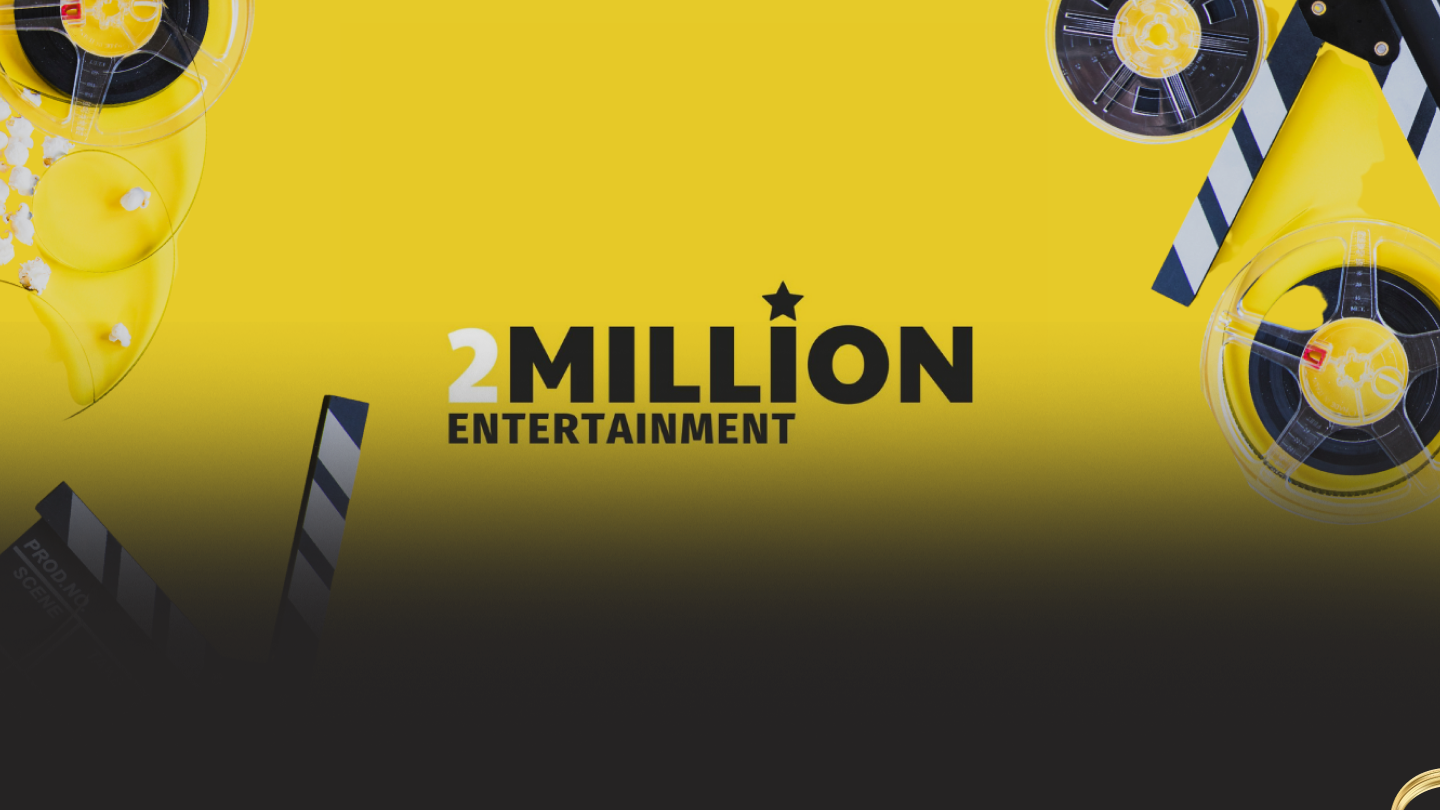
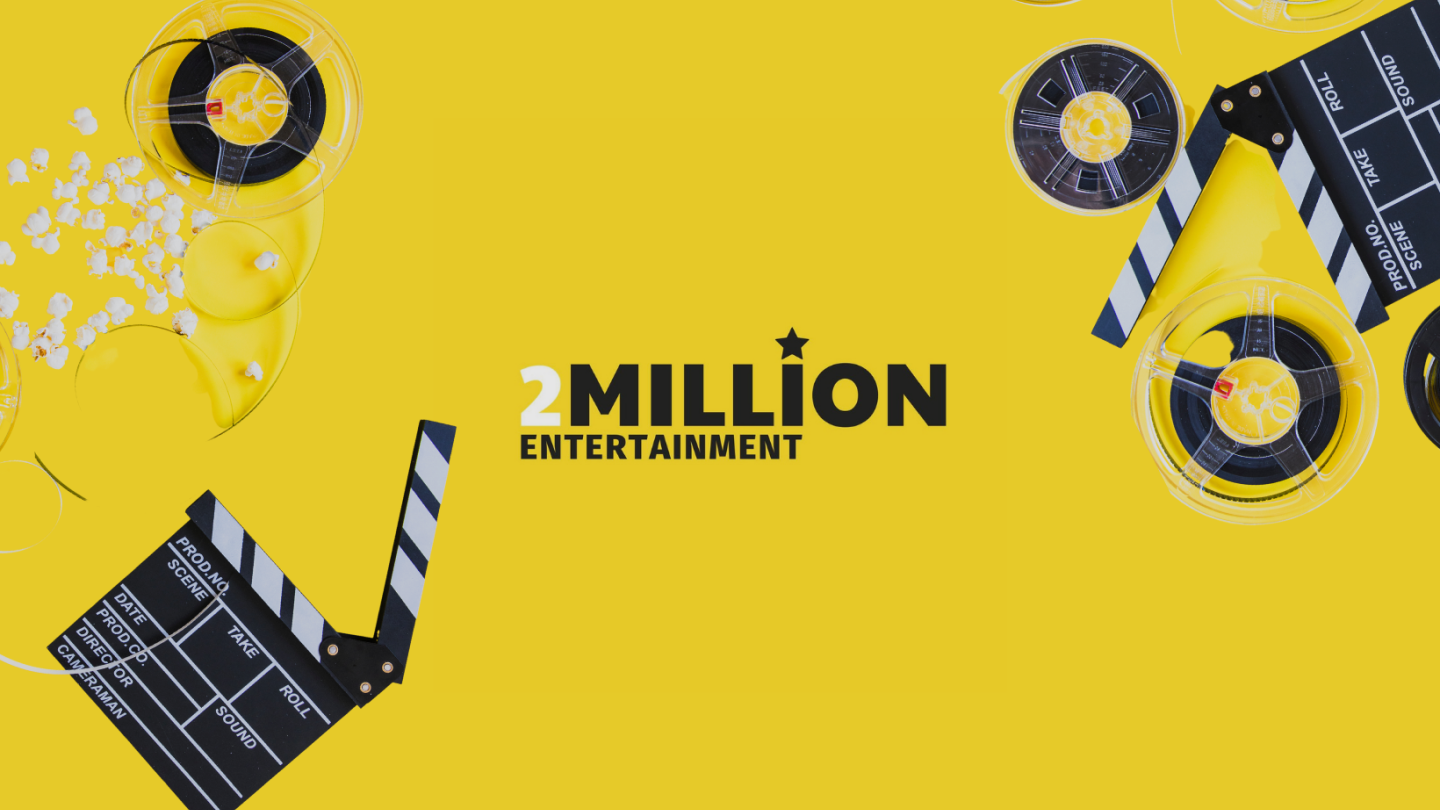
1902

diff --git a/index.html b/index.html
@@ -55,7 +55,7 @@
 
   <!-- ======= Header ======= -->
   <header id="header" class="d-flex align-items-center">
-    <div class="container d-flex align-items-center justify-content-between">
+    <div class="container d-flex align-items-end">
 
       <h1 class="logo"><a href="index.html" style="display: flex; flex-direction: row;">
         <img src="assets/img/Logo PNG .png" alt="" class="img-fluid">
@@ -67,30 +67,10 @@
 
       <nav id="navbar" class="navbar">
         <ul>
-          <li><a class="nav-link scrollto active" href="#hero">Home</a></li>
-          <li><a class="nav-link scrollto" href="#about">About</a></li>
-          <li><a class="nav-link scrollto" href="#services">Services</a></li>
+          <li><a class="nav-link scrollto" href="#about">Về 2ME</a></li>
+          <li><a class="nav-link scrollto" href="#services">Dịch vụ</a></li>
           <li><a class="nav-link scrollto " href="#portfolio">Portfolio</a></li>
-          <li><a class="nav-link scrollto" href="#pricing">Pricing</a></li>
-          <li><a class="nav-link scrollto" href="#team">Team</a></li>
-          <!-- <li class="dropdown"><a href="#"><span>Drop Down</span> <i class="bi bi-chevron-down"></i></a>
-            <ul>
-              <li><a href="#">Drop Down 1</a></li>
-              <li class="dropdown"><a href="#"><span>Deep Drop Down</span> <i class="bi bi-chevron-right"></i></a>
-                <ul>
-                  <li><a href="#">Deep Drop Down 1</a></li>
-                  <li><a href="#">Deep Drop Down 2</a></li>
-                  <li><a href="#">Deep Drop Down 3</a></li>
-                  <li><a href="#">Deep Drop Down 4</a></li>
-                  <li><a href="#">Deep Drop Down 5</a></li>
-                </ul>
-              </li>
-              <li><a href="#">Drop Down 2</a></li>
-              <li><a href="#">Drop Down 3</a></li>
-              <li><a href="#">Drop Down 4</a></li>
-            </ul>
-          </li> -->
-          <li><a class="nav-link scrollto" href="#contact">Contact</a></li>
+          <li><a class="nav-link scrollto" href="#contact">Liên hệ</a></li>
         </ul>
         <i class="bi bi-list mobile-nav-toggle"></i>
       </nav><!-- .navbar -->
@@ -99,10 +79,10 @@
   </header><!-- End Header -->
 
   <!-- ======= Hero Section ======= -->
-  <section id="hero" class="d-flex align-items-center">
+  <section id="hero" class="d-flex align-items-end">
     <div class="container position-relative" data-aos="fade-up" data-aos-delay="500">
-      <h1>Welcome to 2ME AGENCY</h1>
-      <h2>Stand out from the crowd</h2>
+      <h1>Giải pháp truyền thông</h1>
+      <h2>toàn diện, sáng tạo, vững chắc và hiệu quả</h2>
       <!-- <a href="#about" class="btn-get-started scrollto">Get Started</a> -->
     </div>
   </section><!-- End Hero -->
@@ -114,33 +94,25 @@
       <div class="container">
 
         <div >
-          <!-- <div class="col-lg-6 order-1 order-lg-2" data-aos="fade-left">
-            <img src="assets/img/about.jpg" class="img-fluid" alt="">
-          </div> -->
-          <div class=" pt-4 pt-lg-0 order-2 order-lg-1 content" data-aos="fade-right">
-            <h3>VỀ CHÚNG TÔI</h3>
-            <!-- <p class="fst-italic">
-              Lorem ipsum dolor sit amet, consectetur adipiscing elit, sed do eiusmod tempor incididunt ut labore et dolore
-              magna aliqua.
-            </p> -->
-            <ul class="row">
+          
+          <div class=" pt-4 pt-lg-0 order-2 order-lg-1 content" data-aos="fade-left">
+            <h3>VỀ 2ME</h3>
+            <div class="d-inline-flex">
+              <ul class="row">
               <li><i class="bi bi-check-circle"></i>2ME Agency tự hào được chọn làm đối tác chiến lược của nhiều thương hiệu nổi tiếng trong nước và quốc tế trong suốt nhiều năm qua.</li>
               <li><i class="bi bi-check-circle"></i>Chúng tôi tự tin đem đến cho khách hàng các giải pháp truyền thông toàn diện, sáng tạo, vững chắc và hiệu quả, để đưa thương hiệu của bạn được lan tỏa và tiếp cận tới hàng triệu khách hàng tiềm năng trên mạng xã hội chỉ qua 1 nút “Click”.
               </li>
             </ul>
-            <!-- <p>
-              Ullamco laboris nisi ut aliquip ex ea commodo consequat. Duis aute irure dolor in reprehenderit in voluptate
-              velit esse cillum dolore eu fugiat nulla pariatur. Excepteur sint occaecat cupidatat non proident, sunt in
-              culpa qui officia deserunt mollit anim id est laborum
-            </p> -->
+
+            <div class="col-lg-6 order-1 order-lg-2 " data-aos="fade-right">
+            <img src="assets/img/aboutus.png" class="img-fluid" alt="">
+          </div> </div>
+            
           </div>
-          <div class=" pt-4 pt-lg-0 order-2 order-lg-1 content" data-aos="fade-right">
+          
+          <div class=" pt-4 pt-lg-0 order-2 order-lg-1 content " data-aos="fade-right">
             <h3>SỨ MỆNH - TẦM NHÌN - GIÁ TRỊ CỐT LÕI</h3>
-            <!-- <p class="fst-italic">
-              Lorem ipsum dolor sit amet, consectetur adipiscing elit, sed do eiusmod tempor incididunt ut labore et dolore
-              magna aliqua.
-            </p> -->
-            <ul class="row">
+            <ul class="row flex-grow-1">
               <li><i class="bi bi-check-circle"></i> Sứ mệnh: 
                 <li><i class="bi bi-dash" style="padding-left: 20px ;"></i>Đồng hành và cung cấp cho khách hàng các giải pháp dịch vụ truyền thông đa phương tiện hiệu quả và tối ưu trên Social Media</li>
                 <li><i class="bi bi-dash" style="padding-left: 20px ;"></i>Luôn nghiên cứu, cập nhật và phát triển những giải pháp mới tối ưu cho khách hàng phù hợp với thời buổi thị trường</li>
@@ -836,78 +808,7 @@
   </main><!-- End #main -->
 
   <!-- ======= Footer ======= -->
-  <footer id="footer">
-    <div class="footer-top">
-      <div class="container">
-        <div class="row">
-
-          <div class="col-lg-4 col-md-6">
-            <div class="footer-info">
-              <h3>2ME</h3>
-              <p>
-                55 Ngõ Giếng, Phố Đông Các <br>
-                P.Ô Chợ Dừa, Q.Đống Đa, Hà Nội<br><br>
-                <strong>Phone:</strong> 085 8928282<br>
-                <strong>Email:</strong> works@2million.vn<br>
-              </p>
-              <div class="social-links mt-3">
-                <!-- <a href="#" class="twitter"><i class="bx bxl-twitter"></i></a> -->
-                <a href="#" class="facebook"><i class="bx bxl-facebook"></i></a>
-                <a href="#" class="instagram"><i class="bx bxl-instagram"></i></a>
-                <!-- <a href="#" class="google-plus"><i class="bx bxl-skype"></i></a> -->
-                <a href="#" class="linkedin"><i class="bx bxl-linkedin"></i></a>
-              </div>
-            </div>
-          </div>
-
-          <div class="col-lg-2 col-md-6 footer-links">
-            <h4>Useful Links</h4>
-            <ul>
-              <li><i class="bx bx-chevron-right"></i> <a href="#">Home</a></li>
-              <li><i class="bx bx-chevron-right"></i> <a href="#">About us</a></li>
-              <li><i class="bx bx-chevron-right"></i> <a href="#">Services</a></li>
-              <li><i class="bx bx-chevron-right"></i> <a href="#">Terms of service</a></li>
-              <li><i class="bx bx-chevron-right"></i> <a href="#">Privacy policy</a></li>
-            </ul>
-          </div>
-
-          <div class="col-lg-2 col-md-6 footer-links">
-            <h4>Our Services</h4>
-            <ul>
-              <li><i class="bx bx-chevron-right"></i> <a href="#">Web Design</a></li>
-              <li><i class="bx bx-chevron-right"></i> <a href="#">Web Development</a></li>
-              <li><i class="bx bx-chevron-right"></i> <a href="#">Product Management</a></li>
-              <li><i class="bx bx-chevron-right"></i> <a href="#">Marketing</a></li>
-              <li><i class="bx bx-chevron-right"></i> <a href="#">Graphic Design</a></li>
-            </ul>
-          </div>
-
-          <div class="col-lg-4 col-md-6 footer-newsletter">
-            <h4>Our Newsletter</h4>
-            <p>Tamen quem nulla quae legam multos aute sint culpa legam noster magna</p>
-            <form action="" method="post">
-              <input type="email" name="email"><input type="submit" value="Subscribe">
-            </form>
-
-          </div>
-
-        </div>
-      </div>
-    </div>
-
-    <div class="container">
-      <div class="copyright">
-        &copy; Copyright <strong><span>2ME</span></strong>. All Rights Reserved
-      </div>
-      <div class="credits">
-        <!-- All the links in the footer should remain intact. -->
-        <!-- You can delete the links only if you purchased the pro version. -->
-        <!-- Licensing information: https://bootstrapmade.com/license/ -->
-        <!-- Purchase the pro version with working PHP/AJAX contact form: https://bootstrapmade.com/day-multipurpose-html-template-for-free/ -->
-        Designed by <a href="https://bootstrapmade.com/">BootstrapMade</a>
-      </div>
-    </div>
-  </footer><!-- End Footer -->
+  
 
   <a href="#" class="back-to-top d-flex align-items-center justify-content-center"><i class="bi bi-arrow-up-short"></i></a>
   <div id="preloader"></div>

diff --git a/assets/css/style.css b/assets/css/style.css
@@ -217,11 +217,15 @@ h6 {
 }
 
 #header .logo a {
-  color: #fff;
+  color:#7e5e5e;
 }
 
 #header .logo img {
-  max-height: 40px;
+  position: absolute;
+  height: 77px;
+  width: 74px;
+  left: 100px;
+  top: 20px;
 }
 
 
@@ -240,17 +244,22 @@ h6 {
 .navbar ul {
   margin: 0;
   padding: 0;
-  display: flex;
+  display: inline-block;
   list-style: none;
-  align-items: flex-end;
+  align-items: center;
+  
 }
 
 .navbar li {
+  display: inline-block;
   position: relative;
+  line-height: 24px;
+  font: normal 600 24px 'Poppins';
+  color: #fff;
 }
 
-.navbar>ul>li {
-  margin-left: 5px;
+.navbar>ul {
+  margin-left: 350px;
 }
 
 .navbar a,
@@ -259,8 +268,8 @@ h6 {
   align-items: center;
   justify-content: center;
   padding: 25px 15px 24px 15px;
-  font-size: 14px;
-  color: #fff;
+  font-size: 24px;
+  color: #040404;
   white-space: nowrap;
   transition: 0.3s;
 }
@@ -276,7 +285,7 @@ h6 {
 .navbar .active,
 .navbar .active:focus,
 .navbar li:hover>a {
-  background: #cc1616;
+  background: #dea4046e;
 }
 
 .navbar .dropdown ul {
@@ -290,7 +299,6 @@ h6 {
   opacity: 0;
   visibility: hidden;
   background: #fff;
-  box-shadow: 0px 0px 30px rgba(127, 137, 161, 0.25);
   transition: 0.3s;
 }
 
@@ -457,15 +465,15 @@ h6 {
 --------------------------------------------------------------*/
 #hero {
   width: 100%;
-  height: calc(100vh - 50px);
+  height: calc(100vh - 30px);
   background: url("../img/4Banner.png") top center;
   background-size: cover;
-  position: relative;
+  position: position;
+  top: 111px;
 }
 
 #hero:before {
   content: "";
-  background: rgba(0, 0, 0, 0.5);
   position: absolute;
   bottom: 0;
   top: 0;
@@ -475,17 +483,27 @@ h6 {
 
 #hero h1 {
   margin: 0 0 10px 0;
-  font-size: 48px;
+  font-size: 64px;
   font-weight: 700;
-  line-height: 56px;
+  line-height: 65px;
   text-transform: uppercase;
-  color: #fff;
+  background: linear-gradient(90deg, #FFCC6F 7.97%, #FFFBCA 32.98%, #EDBF6A 74.98%, #FFFBCA 86.98%, #EDBF6A 96.98%, #EDBF6A 107.98%);
+  -webkit-background-clip: text;
+  -webkit-text-fill-color:transparent;
+  background-clip: text;
+  font-family: 'SVN-Gilroy';
 }
 
 #hero h2 {
-  color: #eee;
+  color:inherit;
   margin-bottom: 30px;
-  font-size: 24px;
+  font-size: 40px;
+  line-height: 65px;
+  background: linear-gradient(90deg, #FFCC6F 7.97%, #FFFBCA 32.98%, #EDBF6A 74.98%, #FFFBCA 86.98%, #EDBF6A 96.98%, #EDBF6A 107.98%);
+  -webkit-background-clip: text;
+  -webkit-text-fill-color:transparent;
+  background-clip: text;
+  font-family: 'SVN-Gilroy';
 }
 
 #hero .btn-get-started {
@@ -612,6 +630,10 @@ section {
 /*--------------------------------------------------------------
 # About
 --------------------------------------------------------------*/
+.about .container{
+  display:flexbox;
+  flex-flow: row wrap;
+}
 .about .content h3 {
   font-weight: 600;
   font-size: 26px;
